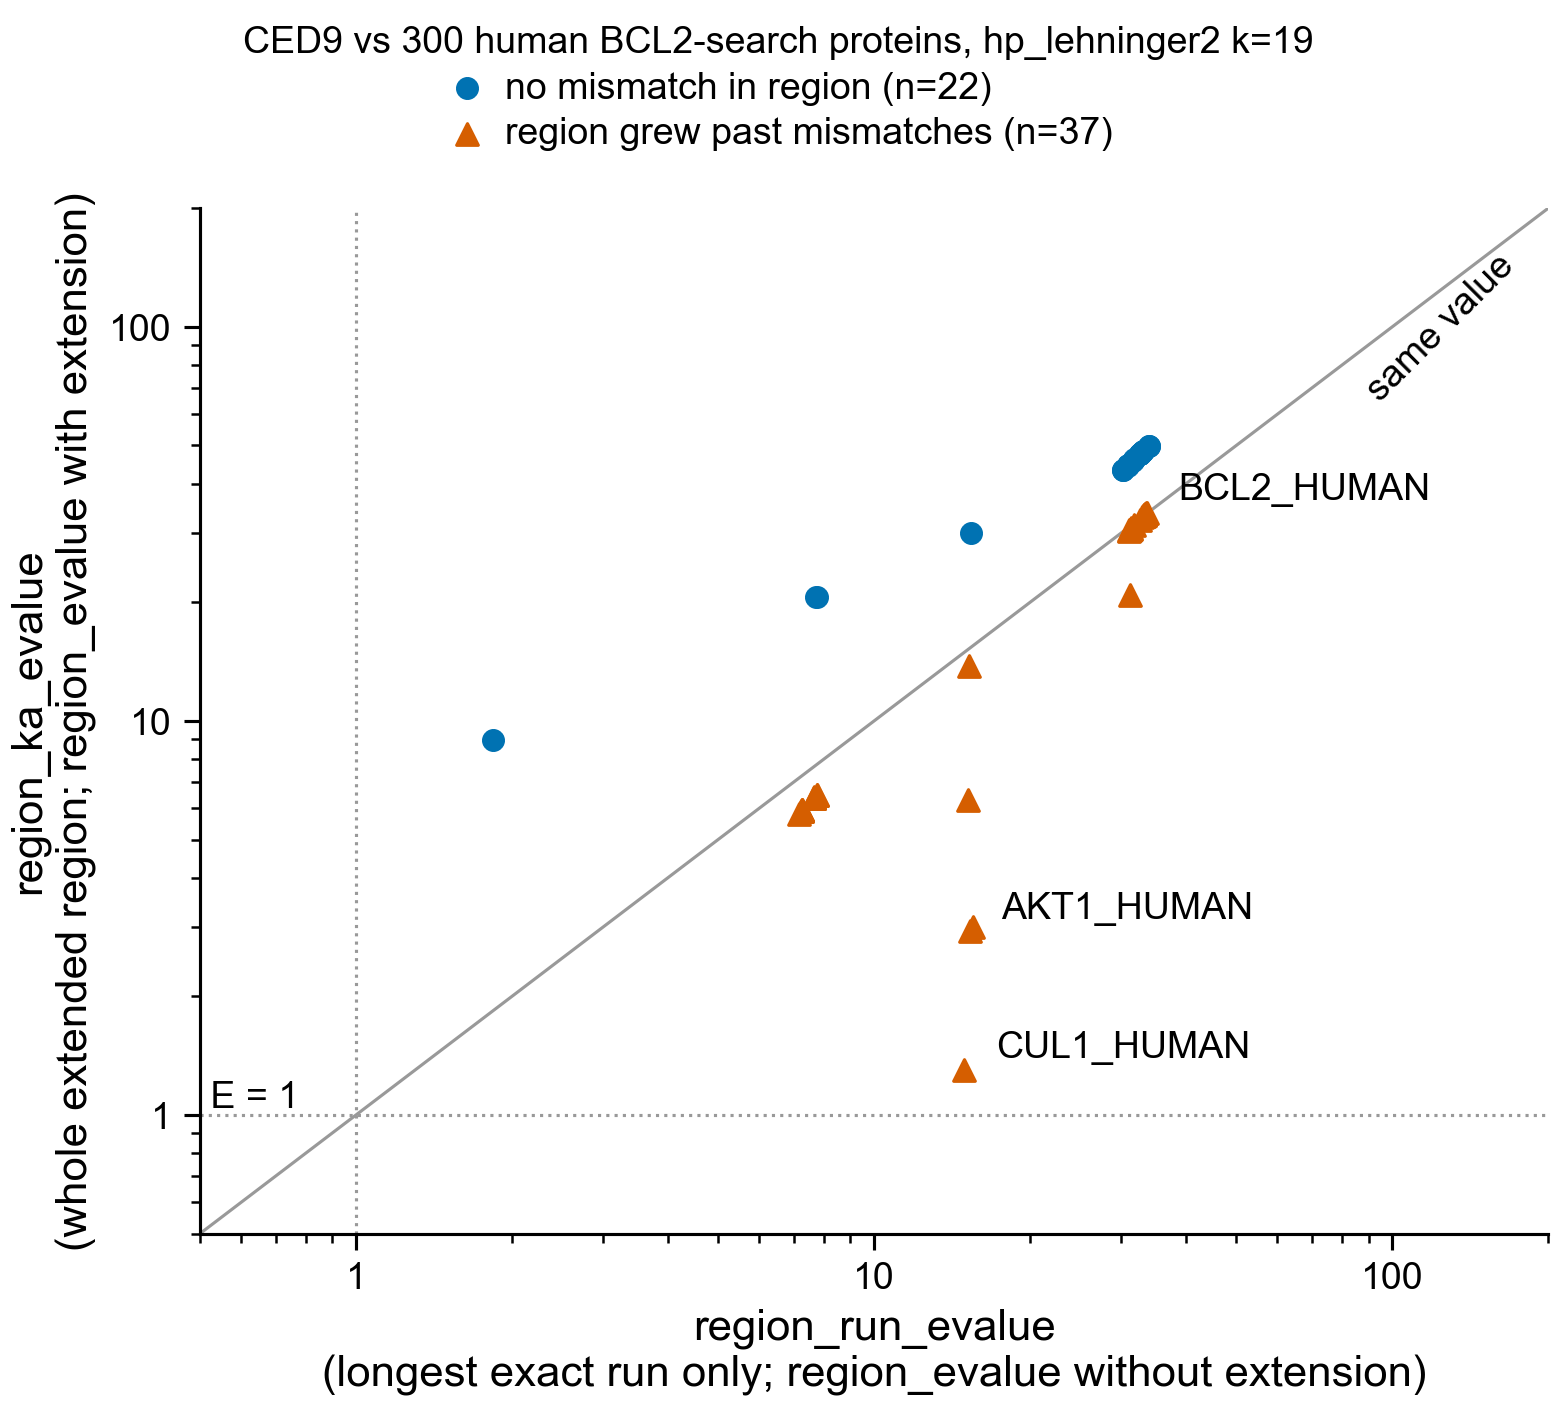
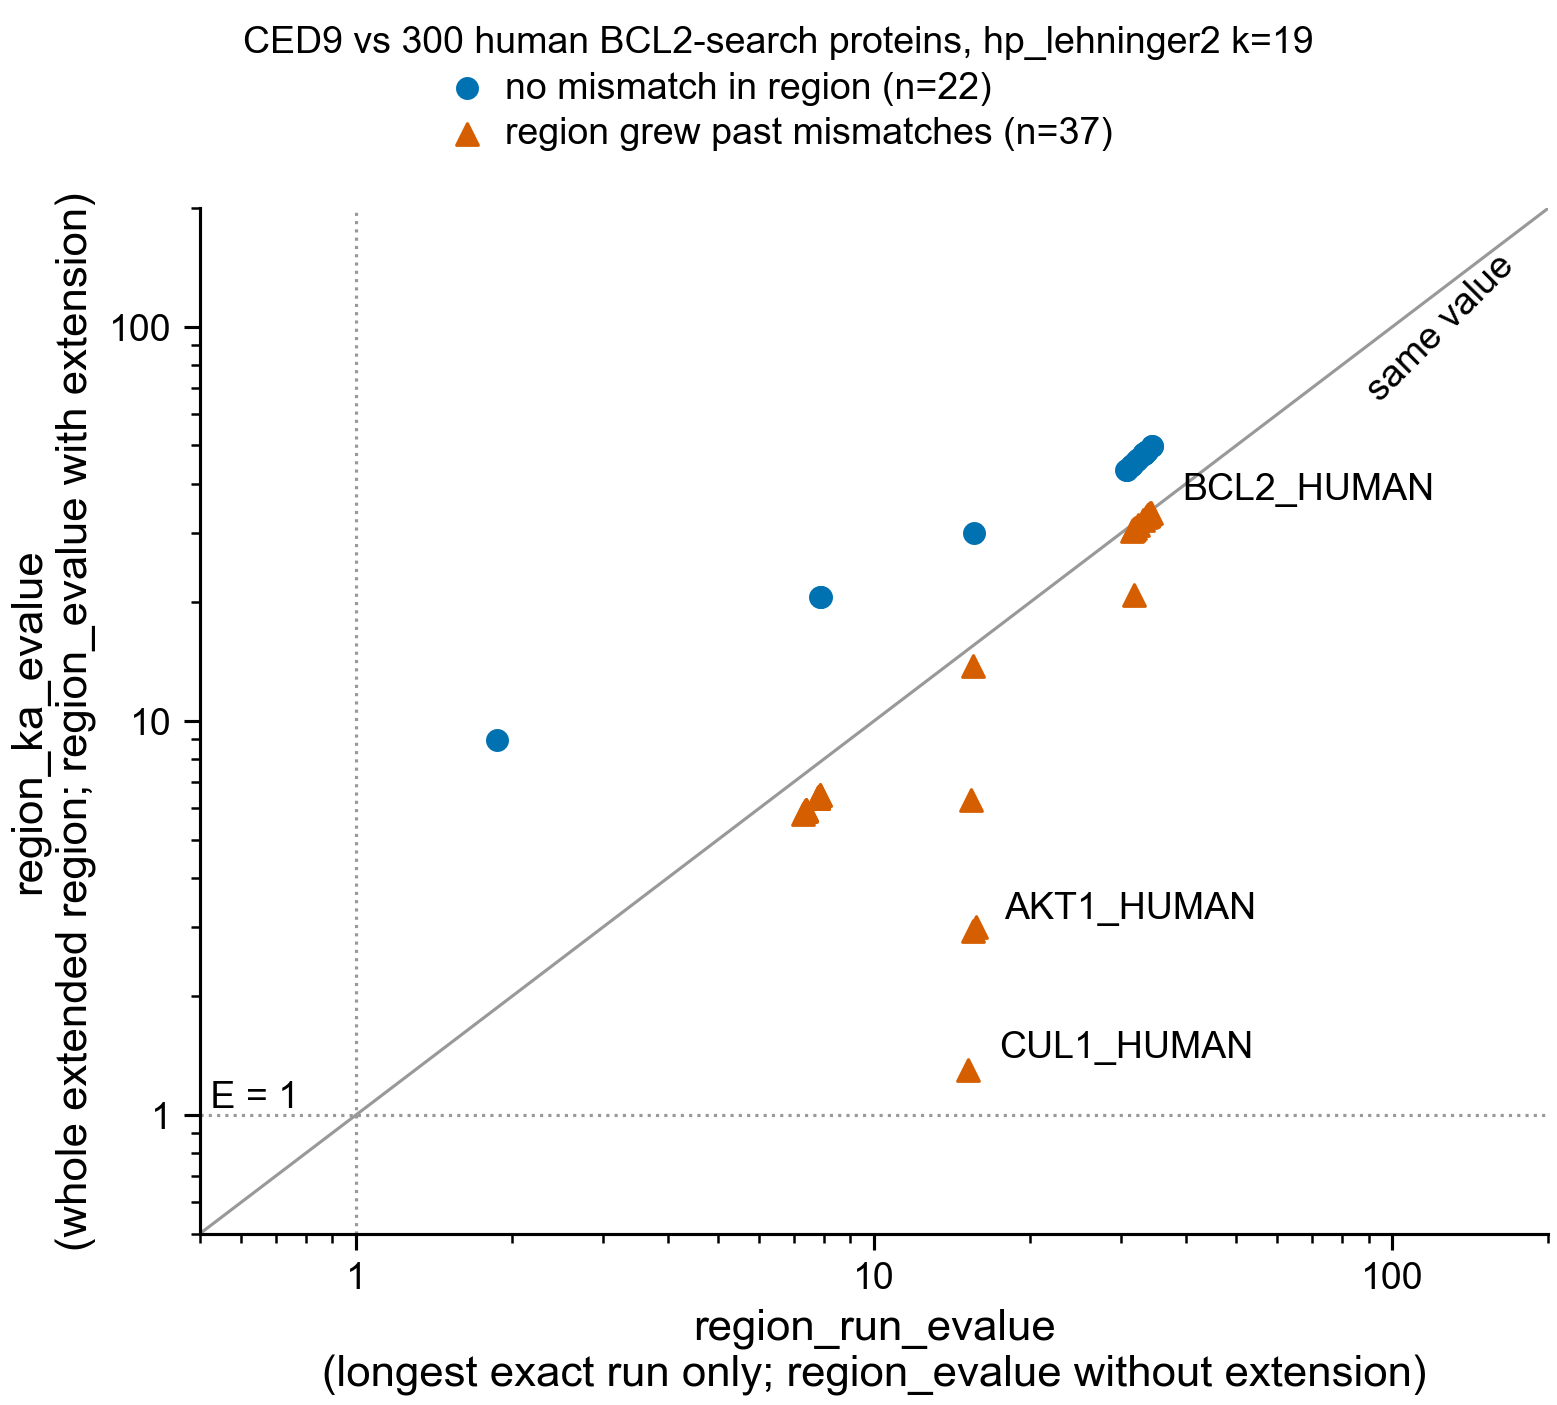
Redo the README's CED9 E-value table with the counted residues
The run E-values in "Which one to use" and its figure move up about 2%
(RTN3 1.8 -> 1.9, CUL1 14.9 -> 15.2, BCL2 33.6 -> 34.2) now that n is the
database's residue count, 116,139 in the 281 targets kept, and the diagonal
starts are counted. The Karlin-Altschul values are unchanged.

Made by scripts/evalue_columns_ced9.sbatch on Sherlock (job 48244754, at
fba495b). The n solved from the RTN3 row predicts the CUL1 and BCL2 rows to
1e-14.

diff --git a/scripts/plot_evalue_columns_ced9.py b/scripts/plot_evalue_columns_ced9.py
@@ -10,6 +10,8 @@ for every region CED9 shares with the 300 human BCL2-search proteins, hp_lehning
     python scripts/plot_evalue_columns_ced9.py ced9_k19_extended.csv \
         -o docs/images/evalue_columns_ced9_bcl2_human_k19
 
+scripts/evalue_columns_ced9.sbatch runs the kmerseek commands as a Sherlock job.
+
 Without --extend-mismatch-penalty every row's region_evalue is its region_run_evalue
 (the x axis); with it, every row whose pair has a positive lambda reports
 region_ka_evalue (the y axis).

diff --git a/README.md b/README.md
@@ -265,17 +265,17 @@ Three of CED9's regions against the 300 human proteins in
 
 | target | search | query span | length | mismatches | L | `region_run_evalue` | `region_ka_evalue` | `region_evalue` | source |
 |---|---|---|---|---|---|---|---|---|---|
-| RTN3_HUMAN | exact | 198-221 | 23 | 0 | 23 | 1.8 | empty | 1.8 | `run` |
-| RTN3_HUMAN | extended | 198-221 | 23 | 0 | 23 | 1.8 | 9.0 | 9.0 | `ka` |
-| CUL1_HUMAN | exact | 152-172 | 20 | 0 | 20 | 14.9 | empty | 14.9 | `run` |
-| CUL1_HUMAN | extended | 139-188 | 49 | 7 | 20 | 14.9 | 1.3 | 1.3 | `ka` |
-| BCL2_HUMAN | exact | 162-181 | 19 | 0 | 19 | 33.6 | empty | 33.6 | `run` |
-| BCL2_HUMAN | extended | 162-188 | 26 | 2 | 19 | 33.6 | 33.8 | 33.8 | `ka` |
+| RTN3_HUMAN | exact | 198-221 | 23 | 0 | 23 | 1.9 | empty | 1.9 | `run` |
+| RTN3_HUMAN | extended | 198-221 | 23 | 0 | 23 | 1.9 | 9.0 | 9.0 | `ka` |
+| CUL1_HUMAN | exact | 152-172 | 20 | 0 | 20 | 15.2 | empty | 15.2 | `run` |
+| CUL1_HUMAN | extended | 139-188 | 49 | 7 | 20 | 15.2 | 1.3 | 1.3 | `ka` |
+| BCL2_HUMAN | exact | 162-181 | 19 | 0 | 19 | 34.2 | empty | 34.2 | `run` |
+| BCL2_HUMAN | extended | 162-188 | 26 | 2 | 19 | 34.2 | 33.8 | 33.8 | `ka` |
 
 `region_run_evalue` looks only at the longest exact run (L), so for these three regions it
 is the same in both searches. `region_ka_evalue` scores the whole extended region. CUL1's region grew from 20
-to 49 positions with 7 mismatches, and its E-value dropped from 14.9 to 1.3. RTN3's region
-did not grow, and the Karlin-Altschul value is 5 times larger than the run value: the run
+to 49 positions with 7 mismatches, and its E-value dropped from 15.2 to 1.3. RTN3's region
+did not grow, and the Karlin-Altschul value is 4.8 times the run value: the run
 E-value assumes positions are independent, while K for `region_ka_evalue` was fitted on the
 database's own proteins (`r_database` 0.80, K 0.0022 for this index). Over all 59 regions
 of the extended search:
@@ -283,7 +283,7 @@ of the extended search:
 ![region_ka_evalue against region_run_evalue for CED9 vs 300 human proteins](docs/images/evalue_columns_ced9_bcl2_human_k19.png)
 
 Drawn by `scripts/plot_evalue_columns_ced9.py`, which lists the commands that made the CSV.
-For a region with no mismatch (blue circles) `region_ka_evalue` is 1.4 to 4.9 times
+For a region with no mismatch (blue circles) `region_ka_evalue` is 1.4 to 4.8 times
 `region_run_evalue`. For a region that grew past mismatches (orange triangles) it is 0.09
 to 1.0 times: the mismatches it crossed are paid for, and the matches past them count.
 
